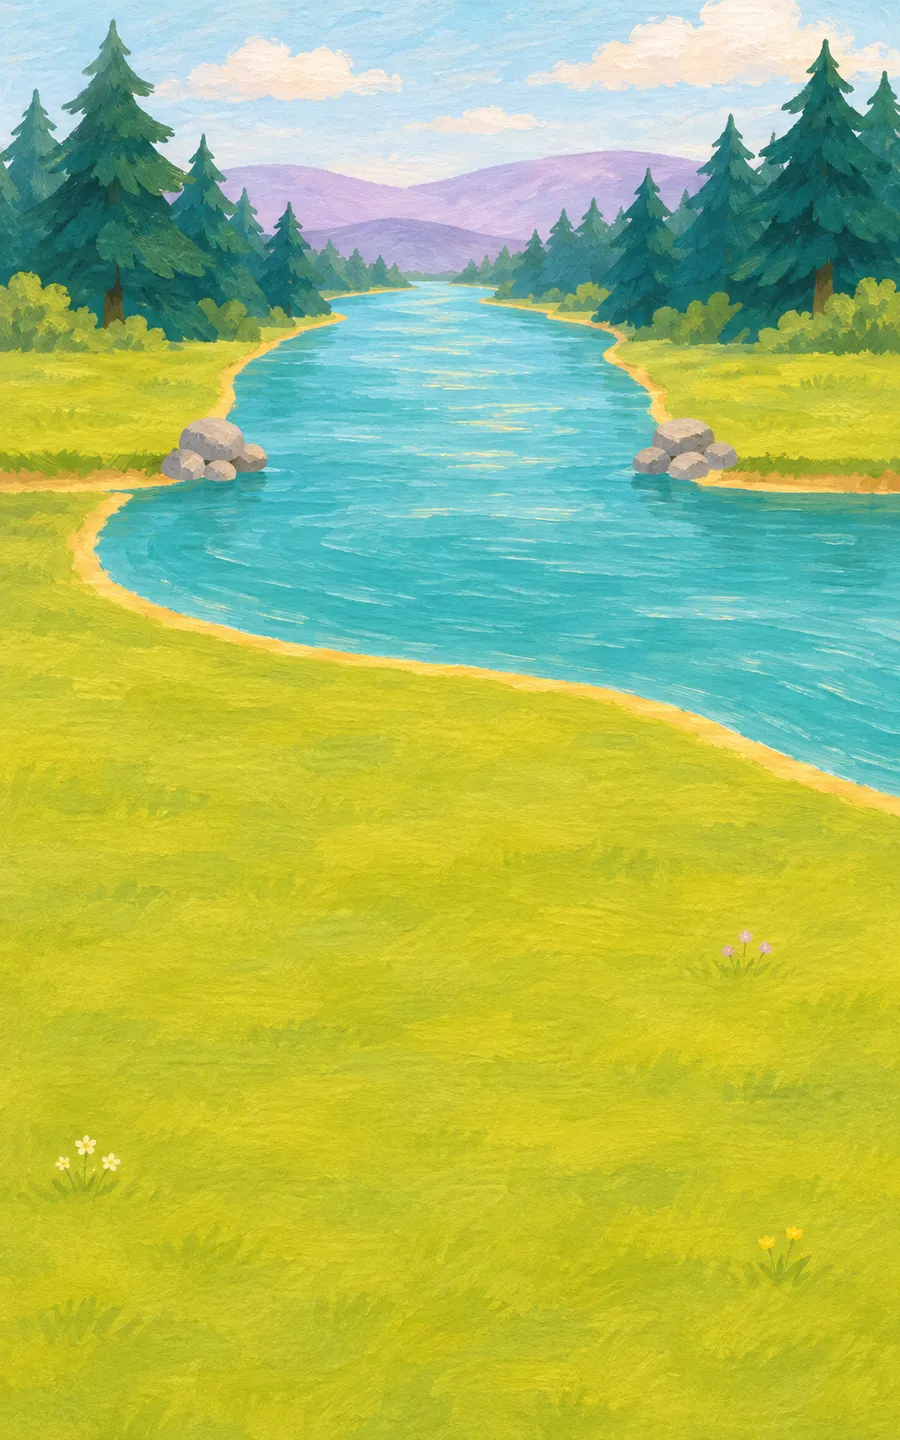
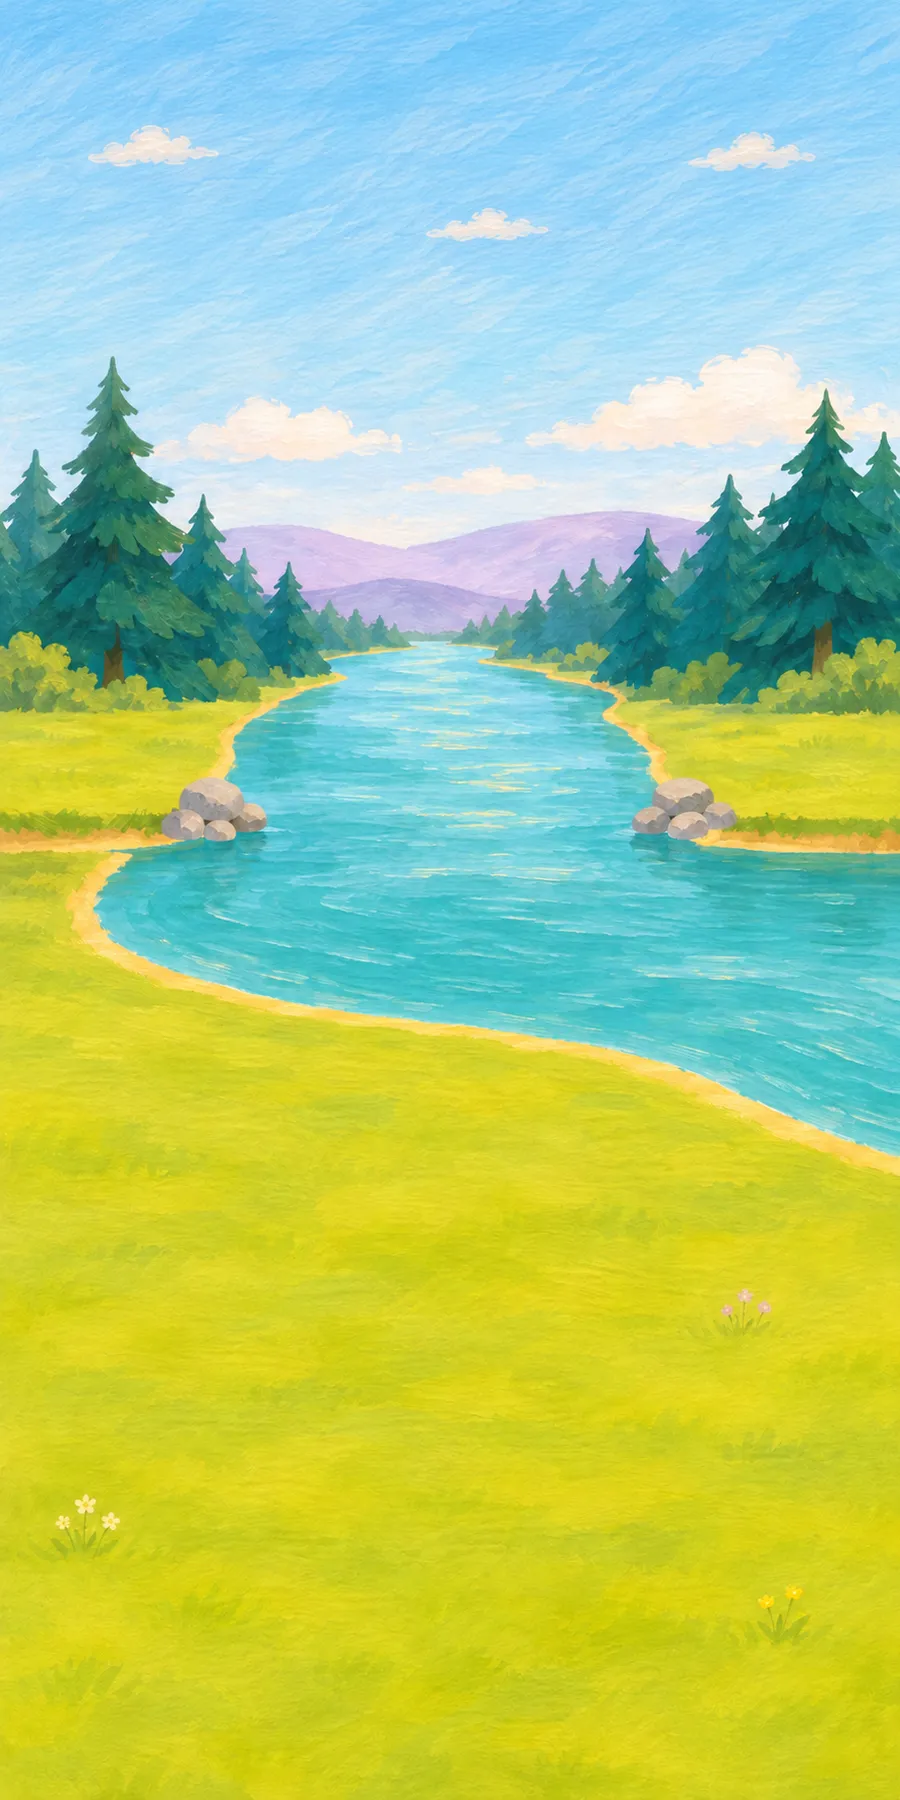
Fixes after review: lily pad rims, moles out of their holes, lower bridge on phones, no fox in the way, taller tower, bigger frog-jump targets
- Lily Pad Pairs: a faint cream rim round every picture, so none melts into the pad.
- Mole Pop: critters are as wide as the hole and rise from behind its front rim.
- Bridge Builder: the upright painting is 1:2 (sky painted above), so the bridge sits mid-screen on a phone.
- Forest Feast: no fox on the upright view; the waiting guests stand on its rug.
- Tower Stack: 18 floors per stage; the tower grows to about 70% of the sky, then slides down; small stars for a long stage row.
- Number Line Jump: stones, numbers and frog are bigger on phones, and a stone's whole column down the bank is its tap area, lit while aimed.

diff --git a/src/styles.css b/src/styles.css
@@ -328,10 +328,11 @@ h1, h2 { margin: 0; line-height: 1.1; }
 .mp-field { position: absolute; inset: 0; }
 .mp-hole { position: absolute; padding: 0; background: none; border-radius: 30%; -webkit-tap-highlight-color: transparent; touch-action: manipulation; }
 .mp-mound { position: absolute; left: 0; bottom: 0; width: 100%; user-select: none; pointer-events: none; }
-.mp-pit { position: absolute; left: 0; right: 0; top: 0; overflow: hidden; pointer-events: none; }
-.mp-critter { position: absolute; left: 14%; right: 14%; bottom: -100%; height: 74%; display: flex; justify-content: center; align-items: flex-end; transition: bottom 0.12s ease-out; }
-.mp-critter img { height: 100%; user-select: none; }
-.mp-up { bottom: -4%; }
+.mp-pit { position: absolute; left: 0; right: 0; top: 0; overflow: hidden; pointer-events: none; border-radius: 0 0 50% 50% / 0 0 9% 9%; }
+/* Just as wide as the hole's opening, rising from behind its front rim. */
+.mp-critter { position: absolute; left: 25%; right: 25%; bottom: -130%; display: flex; justify-content: center; align-items: flex-end; transition: bottom 0.12s ease-out; }
+.mp-critter img { width: 100%; user-select: none; }
+.mp-up { bottom: 4%; }
 .mp-hit { transform: scale(0.92) rotate(-6deg); }
 
 /* Anagram Race */
@@ -755,6 +756,9 @@ button.wm-pill:active, .wm-arrow:active, .scene-back:active { transform: transla
 /* Many stars need smaller stars. */
 .scene-pips:has(svg:nth-child(7)) { gap: 3px; padding: 7px 10px; }
 .scene-pips:has(svg:nth-child(7)) svg { width: 19px; height: 19px; }
+/* A long stage (Tower Stack): small stars, so the row still fits between the back and heart buttons on a phone. */
+.scene-pips:has(svg:nth-child(13)) { gap: 0; padding: 6px 8px; }
+.scene-pips:has(svg:nth-child(13)) svg { width: 12px; height: 12px; }
 @media (min-width: 900px) and (min-height: 560px) {
   .sg-wall { height: 170px; padding: 0 max(60px, 50% - 380px) 0 0; }
   .sg-window { left: max(60px, 50% - 380px); }
@@ -1139,15 +1143,17 @@ button.wm-pill:active, .wm-arrow:active, .scene-back:active { transform: transla
 .nl-back { background: #c94a6b; }
 .nl-stage { position: absolute; touch-action: none; }
 .nl-line { display: none; }
-.nl-tick { position: absolute; top: calc(62% - 40px); width: 8.4%; height: 130px; padding: 0; transform: translateX(-50%); display: flex; flex-direction: column; align-items: center; gap: 4px; background: none; border: 0; border-radius: 18px; color: var(--story-ink); -webkit-tap-highlight-color: transparent; }
-.nl-mark { display: block; width: 100%; max-width: 92px; margin-top: 18px; user-select: none; transition: transform 0.12s, filter 0.2s; }
-.nl-num { min-height: 44px; font-family: var(--story); font-size: 40px; font-weight: 800; line-height: 1; color: #fffaf0; text-shadow: 0 2px 3px rgba(20, 60, 70, 0.7); }
+.nl-tick { position: absolute; top: calc(var(--nl-row) - 40px * var(--nl-k)); bottom: 0; width: 9%; padding: 0; transform: translateX(-50%); display: flex; flex-direction: column; align-items: center; gap: 4px; background: none; border: 0; border-radius: 18px; color: var(--story-ink); -webkit-tap-highlight-color: transparent; transition: background 0.12s; }
+.nl-mark { display: block; width: 100%; max-width: calc(92px * var(--nl-k)); margin-top: calc(18px * var(--nl-k)); user-select: none; transition: transform 0.12s, filter 0.2s; }
+.nl-num { min-height: calc(44px * var(--nl-k)); font-family: var(--story); font-size: calc(40px * var(--nl-k)); font-weight: 800; line-height: 1; color: #fffaf0; text-shadow: 0 2px 3px rgba(20, 60, 70, 0.7); }
 .nl-start .nl-num { color: #ffe27a; }
 .nl-right .nl-mark { filter: drop-shadow(0 0 10px #ffe27a) drop-shadow(0 0 4px #ffd24a) brightness(1.08); }
 .nl-wrong { animation: shake 0.35s; }
 .nl-wrong .nl-mark { filter: drop-shadow(0 0 10px #ff7d9b) sepia(0.4) hue-rotate(-30deg) saturate(2); }
+/* The column under the finger lights up softly, all the way down: the whole column is the stone's tap area. */
+.nl-aim { background: linear-gradient(rgba(255, 250, 225, 0.5), rgba(255, 250, 225, 0.12)); }
 .nl-aim .nl-mark { transform: scale(1.18); filter: brightness(1.12); }
-.nl-frog { position: absolute; top: calc(62% - 110px); width: 96px; aspect-ratio: 0.77; translate: -50% 0; transition: left 0.14s ease-out; animation: nlHop 0.16s ease-out; pointer-events: none; z-index: 1; }
+.nl-frog { position: absolute; top: calc(var(--nl-row) - 110px * var(--nl-k)); width: calc(96px * var(--nl-k)); aspect-ratio: 0.77; translate: -50% 0; transition: left 0.14s ease-out; animation: nlHop 0.16s ease-out; pointer-events: none; z-index: 1; }
 .nl-frog img { position: absolute; inset: 0; width: 100%; height: 100%; user-select: none; }
 .nl-frog img.nl-off { visibility: hidden; }
 .nl-count { position: absolute; left: 50%; top: -46px; translate: -50% 0; font-family: var(--story); font-size: 44px; font-weight: 800; color: #ffe0e8; text-shadow: 0 2px 3px rgba(120, 20, 50, 0.7); }
@@ -1410,6 +1416,8 @@ button.wm-pill:active, .wm-arrow:active, .scene-back:active { transform: transla
 .lp-pic { display: block; width: 100%; height: 100%; padding: 0; background: none; border-radius: 50%; transition: transform 0.12s, opacity 0.3s; -webkit-tap-highlight-color: transparent; }
 .lp-pic:active { transform: scale(0.92); }
 .lp-art { display: block; width: 100%; height: 100%; overflow: visible; }
+/* A faint cream rim, so a green leaf or a dark critter never melts into the painted pad. */
+.lily-pads .lp-art { filter: drop-shadow(1.6px 0 0 rgba(255, 252, 240, 0.85)) drop-shadow(-1.6px 0 0 rgba(255, 252, 240, 0.85)) drop-shadow(0 1.6px 0 rgba(255, 252, 240, 0.85)) drop-shadow(0 -1.6px 0 rgba(255, 252, 240, 0.85)); }
 .lp-hop { animation: pkHop 0.55s; filter: drop-shadow(0 0 6px #fff6dc) drop-shadow(0 0 3px #fff6dc); }
 .lp-no { animation: psNo 0.4s 2; }
 .lp-fade { opacity: 0.35; }

diff --git a/src/games/number-line/Game.tsx b/src/games/number-line/Game.tsx
@@ -18,7 +18,7 @@ import { jumpText, makeQuestion, pathOf, showsLabel, specFor, WINDOW, type Quest
 const STAGE = 6
 
 /** Where a number sits across the line, in % of its width. */
-const xOf = (n: number, lo: number) => 8 + ((n - lo) / WINDOW) * 84
+const xOf = (n: number, lo: number) => 5 + ((n - lo) / WINDOW) * 90
 
 /** Every single hop the frog makes, one number at a time. */
 function hopsOf(q: Question) {
@@ -46,10 +46,14 @@ const VIEWS: PaintedView<ViewId>[] = [
   { id: 'tall', painting: streamTall, world: { w: 720, h: 1152 }, focus: { x: 0, y: 260, w: 720, h: 800 }, ground: '#aeb731', sayAt: { x: 360, y: 380 } },
 ]
 
-/** The stones' row (its box: the line runs at 62% of its height), and where the jump cards sit. */
-const SPOTS: Record<ViewId, { line: { x: number; y: number; w: number; h: number }; jumps: number }> = {
-  wide: { line: { x: 20, y: 380, w: 1240, h: 300 }, jumps: 300 },
-  tall: { line: { x: 0, y: 560, w: 720, h: 230 }, jumps: 455 },
+/**
+ * The tap area (a box reaching from the stones down over the near bank, so a finger anywhere in a stone's column
+ * picks it), where in it the stones sit (`row`, a fraction of its height), how big stones, numbers and frog are
+ * (`k`; bigger on a phone, whose painting is shown smaller), and where the jump cards sit.
+ */
+const SPOTS: Record<ViewId, { line: { x: number; y: number; w: number; h: number }; row: number; k: number; jumps: number }> = {
+  wide: { line: { x: 20, y: 380, w: 1240, h: 410 }, row: 0.46, k: 1, jumps: 300 },
+  tall: { line: { x: 0, y: 590, w: 720, h: 540 }, row: 0.19, k: 1.25, jumps: 455 },
 }
 
 /** The frog blinks now and then while it waits. */
@@ -138,7 +142,7 @@ export default function NumberLine({ level, seed, t, onFinish }: GameProps) {
   const tickAt = (e: PointerEvent<HTMLDivElement>) => {
     const box = e.currentTarget.getBoundingClientRect()
     const pct = ((e.clientX - box.left) / box.width) * 100
-    return Math.min(q.lo + WINDOW, Math.max(q.lo, q.lo + Math.round(((pct - 8) / 84) * WINDOW)))
+    return Math.min(q.lo + WINDOW, Math.max(q.lo, q.lo + Math.round(((pct - 5) / 90) * WINDOW)))
   }
 
   const ticks = Array.from({ length: WINDOW + 1 }, (_, i) => q.lo + i)
@@ -162,7 +166,7 @@ export default function NumberLine({ level, seed, t, onFinish }: GameProps) {
       <div
         className="nl-stage"
         ref={lineRef}
-        style={{ left: at.line.x, top: at.line.y, width: at.line.w, height: at.line.h }}
+        style={{ left: at.line.x, top: at.line.y, width: at.line.w, height: at.line.h, ['--nl-row' as string]: `${at.row * 100}%`, ['--nl-k' as string]: at.k }}
         onPointerDown={(e) => {
           if (over || busy) return
           e.currentTarget.setPointerCapture?.(e.pointerId)

diff --git a/src/games/forest-feast/Game.tsx b/src/games/forest-feast/Game.tsx
@@ -66,10 +66,11 @@ const TABLE_AT: Record<ViewId, {
   /** Tallest guest, and the size of a wish bubble. */
   maxH: number
   bubble: number
-  host: { x: number; bottom: number; h: number }
+  /** Where the fox stands, or null: on an upright phone the waiting guests stand on its rug. */
+  host: { x: number; bottom: number; h: number } | null
 }> = {
   wide: { top: 452, front: 478, left: 200, right: 1060, maxH: 290, bubble: 64, host: { x: 1178, bottom: 730, h: 340 } },
-  tall: { top: 518, front: 545, left: 40, right: 680, maxH: 300, bubble: 84, host: { x: 360, bottom: 1040, h: 360 } },
+  tall: { top: 518, front: 545, left: 40, right: 680, maxH: 300, bubble: 84, host: null },
 }
 
 /** How much of a seated guest shows above the table. */
@@ -251,11 +252,13 @@ export default function ForestFeast({ level, seed, t, onFinish }: GameProps) {
               ),
             )}
 
-            {/* The fox hosts the feast. */}
-            <div className={`fe-host${busy ? ' fe-happy' : ''}`} style={worldStyle(at.host.x, at.host.bottom, at.host.h)}>
-              <img src={fox} alt="" draggable={false} className={busy ? 'fe-off' : ''} />
-              <img src={foxHappy} alt="" draggable={false} className={busy ? '' : 'fe-off'} />
-            </div>
+            {/* The fox hosts the feast (on a wide screen). */}
+            {at.host && (
+              <div className={`fe-host${busy ? ' fe-happy' : ''}`} style={worldStyle(at.host.x, at.host.bottom, at.host.h)}>
+                <img src={fox} alt="" draggable={false} className={busy ? 'fe-off' : ''} />
+                <img src={foxHappy} alt="" draggable={false} className={busy ? '' : 'fe-off'} />
+              </div>
+            )}
 
             {/* A seated guest shows its wish while it is not kept, or while it is picked. */}
             {seating.map((g, s) => {

diff --git a/src/games/bridge-builder/Game.tsx b/src/games/bridge-builder/Game.tsx
@@ -65,7 +65,7 @@ type ViewId = 'wide' | 'tall'
 /** The river valley: the bridge spans the river between two piles of stones, and the planks lie on the near meadow. */
 const VIEWS: PaintedView<ViewId>[] = [
   { id: 'wide', painting: valley, world: { w: 1280, h: 800 }, focus: { x: 60, y: 120, w: 1000, h: 680 }, ground: '#b9be27', sayAt: { x: 560, y: 200 } },
-  { id: 'tall', painting: valleyTall, world: { w: 720, h: 1152 }, focus: { x: 80, y: 120, w: 560, h: 960 }, ground: '#bbbc23', sayAt: { x: 150, y: 250 } },
+  { id: 'tall', painting: valleyTall, world: { w: 720, h: 1440 }, focus: { x: 60, y: 420, w: 600, h: 1000 }, ground: '#c9cb1a', sayAt: { x: 150, y: 520 } },
 ]
 
 /**
@@ -75,7 +75,8 @@ const VIEWS: PaintedView<ViewId>[] = [
  */
 const BOX: Record<ViewId, { k: number; bridge: { x: number; y: number }; meadow: { x: number; top: number; bottom: number } }> = {
   wide: { k: 1.68, bridge: { x: 249, y: 375 - (DECK_Y + THICK) * 1.68 }, meadow: { x: 80, top: 590, bottom: 790 } },
-  tall: { k: 1.35, bridge: { x: 89, y: 357 - (DECK_Y + THICK) * 1.35 }, meadow: { x: 100, top: 690, bottom: 1080 } },
+  // The upright painting is extra tall (1:2), so the bridge sits lower on a phone.
+  tall: { k: 1.336, bridge: { x: 90, y: 648 - (DECK_Y + THICK) * 1.336 }, meadow: { x: 100, top: 980, bottom: 1400 } },
 }
 
 /** The fox blinks now and then while it waits. */

diff --git a/src/games/tower-stack/Game.tsx b/src/games/tower-stack/Game.tsx
@@ -46,9 +46,10 @@ function useBlink() {
 }
 
 /** Floors to build in one stage. */
-const STAGE = 8
+const STAGE = 18
 const START: Block = { x: 30, w: 40 }
-const VISIBLE = 9
+/** Floors on screen: the tower grows to about 70% of the sky, then slides down as it climbs on. */
+const VISIBLE = 7
 // Soft painted-wood tints, multiplied over the painted grain.
 const colors = ['#ffb3b3', '#ffe48f', '#aaf0cc', '#ace0ff', '#d6ccff', '#ffcaee', '#ffcf98']
 
@@ -115,7 +116,7 @@ export default function TowerStack({ level, t, onFinish }: GameProps) {
 
   const base = Math.max(0, tower.length - VISIBLE)
   const shown = tower.slice(base)
-  const rowH = 100 / (VISIBLE + 2)
+  const rowH = 100 / 11
   const y = (floor: number) => 100 - (floor - base + 1) * rowH
 
   const face: Face = over ? 'happy' : mood ?? (blink ? 'blink' : 'idle')

diff --git a/src/games/mole-pop/Game.tsx b/src/games/mole-pop/Game.tsx
@@ -27,8 +27,8 @@ const GRID: Record<ViewId, { cols: number[]; rows: number[]; w: number }> = {
   tall: { cols: [130, 360, 590], rows: [510, 740, 970], w: 215 },
 }
 
-/** Where the hole is in the molehill picture (364 × 150): its middle, as fractions. */
-const HOLE = { x: 0.5, y: 0.27 }
+/** Where the hole is in the molehill picture (364 × 150): its middle, and the height of its front rim, as fractions. */
+const HOLE = { x: 0.5, y: 0.38 }
 
 interface Up {
   kind: Critter
